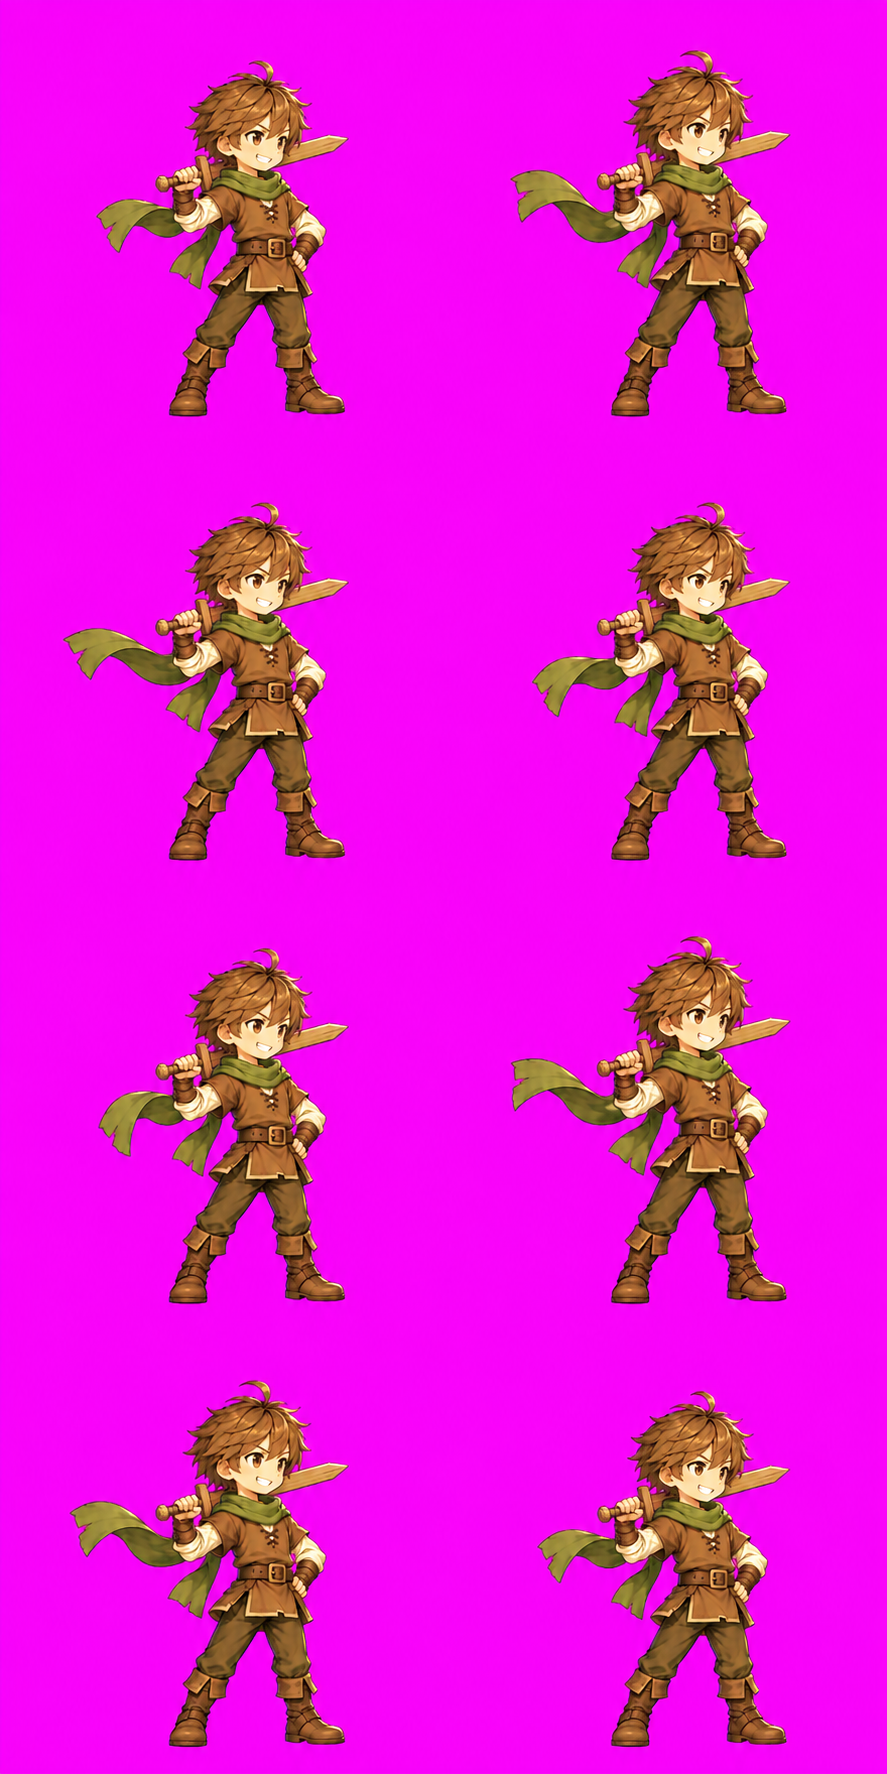
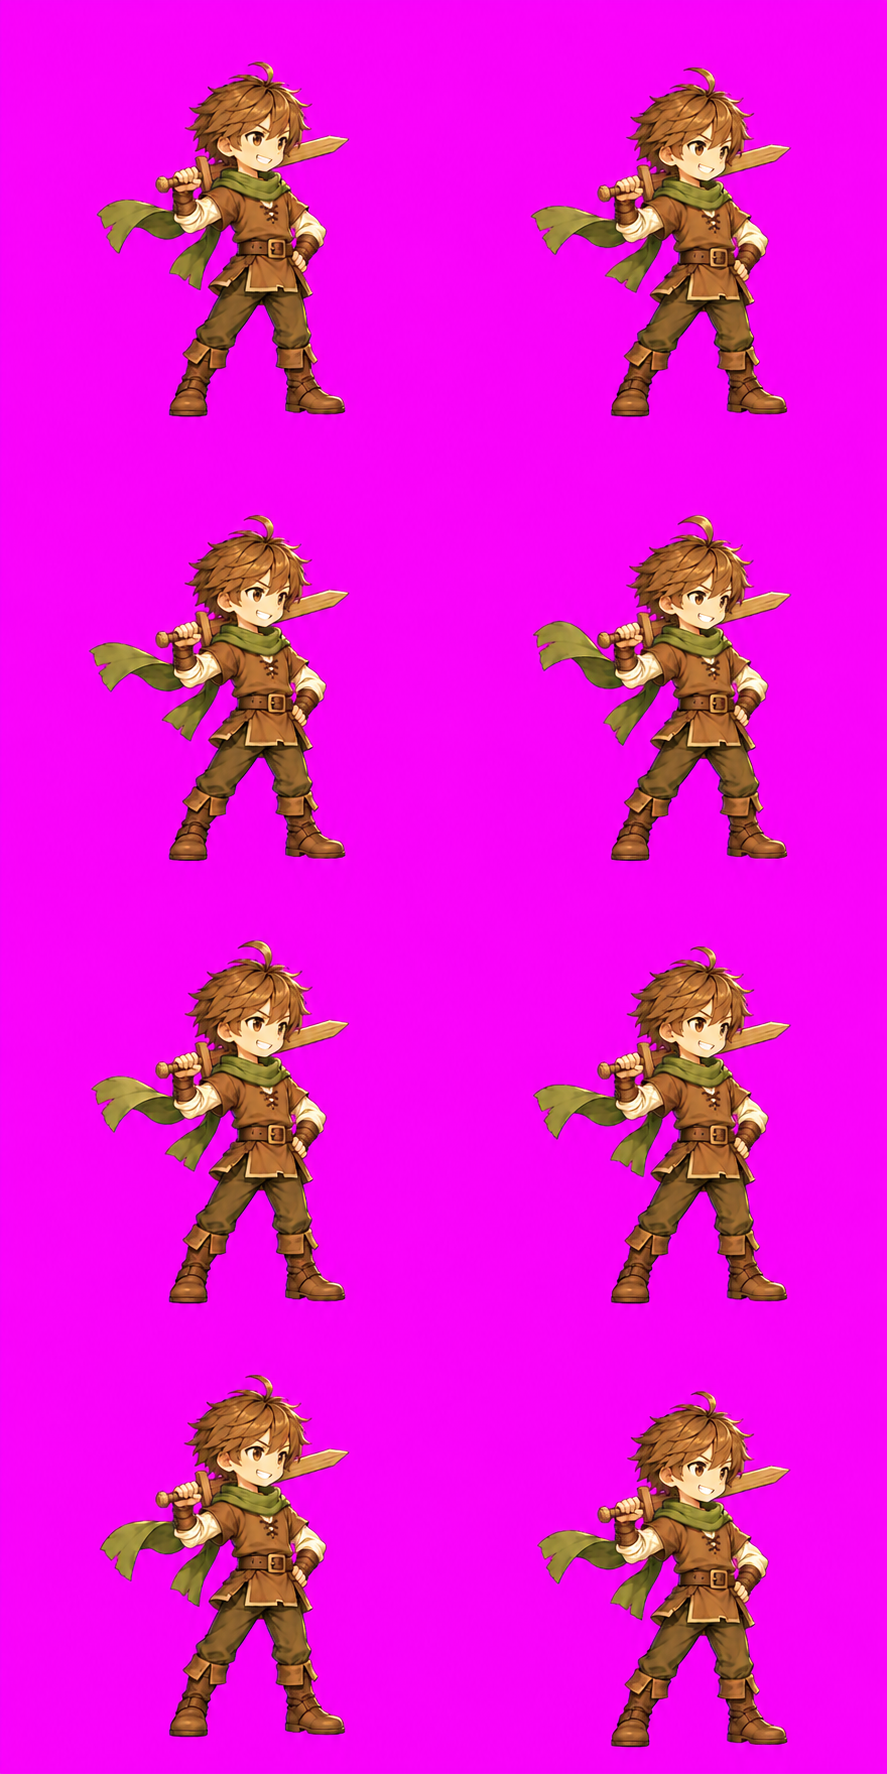
art(tan): eager heel-bounce showcase loop (astra high, face and boots from the master) and a quicker head scratch; hub actions start and end on the loop's resting frame

diff --git a/src/gemwoven/hero-show.js b/src/gemwoven/hero-show.js
@@ -77,13 +77,14 @@
       if(playing){
         // An action may hold some frames longer (show.sheets.timing: ms per frame).
         const p=playing,hold=show.sheets.timing?.[p.src]?.[Math.max(0,p.frame-1)]??p.ms;if(p.frame&&now-p.last<hold)return;p.last=now;stage.style.backgroundPosition=cell(p.frame);
-        if(++p.frame>=8){playing=null;sheet(show.sheets.idle);next=now+5000+Math.random()*4000;p.done?.();}
+        // Actions start and end on the resting pose, so the loop picks up again from its first frame.
+        if(++p.frame>=8){playing=null;frame=0;tick.last=now;sheet(show.sheets.idle);stage.style.backgroundPosition=cell(0);next=now+5000+Math.random()*4000;p.done?.();}
         return;
       }
       if(reduced())return;
       if(now-(tick.last||0)>=150){tick.last=now;frame=(frame+1)%8;stage.style.backgroundPosition=cell(frame);}
       const fidgets=show.sheets.fidgets||[];
-      if(fidgets.length&&now>next){
+      if(fidgets.length&&now>next&&frame===0){   // only from the resting pose: a bouncing loop never jumps
         const pick=fidgets[Math.floor(Math.random()*fidgets.length)];
         if(isReady(pick)&&isReady(show.sheets.idle))play(pick,130);else next=now+1000;
       }

diff --git a/assets/heroes/forms/novice/form-1/post/bobface.py b/assets/heroes/forms/novice/form-1/post/bobface.py
@@ -1,0 +1,38 @@
+"""bobface.py <whole.webp> <master_cell.png> <out.webp> <face box> <boots box> : a resting loop drawn whole by Codex,
+with the face held from the master: for each frame the master's face patch is placed (integer shift only, found by
+matching the drawn head) where the drawn face bobs to, and the boots are the master's boots in place. Frame 1 = master.
+Pixel selection and whole-pixel placement only; nothing is drawn, warped or scaled."""
+import sys
+import numpy as np
+from PIL import Image, ImageFilter
+who = np.asarray(Image.open(sys.argv[1]).convert("RGBA")).astype(np.float32) / 255
+mas = np.asarray(Image.open(sys.argv[2]).convert("RGBA")).astype(np.float32) / 255
+c = who.shape[1] // 2
+face = list(map(int, sys.argv[4].split(","))); boots = list(map(int, sys.argv[5].split(",")))
+cell = lambda i: (slice((i // 2) * c, (i // 2 + 1) * c), slice((i % 2) * c, (i % 2 + 1) * c))
+pm = lambda a: np.concatenate([a[..., :3] * a[..., 3:], a[..., 3:]], -1)
+def mask(b, blur=1.6):
+    m = np.zeros((c, c), np.uint8); m[b[1]:b[3], b[0]:b[2]] = 255
+    return np.asarray(Image.fromarray(m).filter(ImageFilter.GaussianBlur(blur)), np.float32)[..., None] / 255
+def shift(a, dx, dy):
+    o = np.zeros_like(a); H, W = a.shape[:2]
+    o[max(0, dy):H + min(0, dy), max(0, dx):W + min(0, dx)] = a[max(0, -dy):H - max(0, dy), max(0, -dx):W - max(0, dx)]
+    return o
+M = pm(mas); out = who.copy(); wf, wb = mask(face), mask(boots)
+hx0, hy0, hx1, hy1 = face[0] - 25, face[1] - 40, face[2] + 10, face[3] + 5     # head area used to find the bob
+for i in range(8):
+    F = pm(who[cell(i)])
+    if i == 0:
+        res = M
+        print(1, "master")
+    else:
+        best = min(((np.abs(shift(M, dx, dy)[hy0:hy1, hx0:hx1] - F[hy0:hy1, hx0:hx1]).mean(), dx, dy)
+                    for dx in range(-4, 5) for dy in range(-8, 9)))
+        _, dx, dy = best
+        res = F * (1 - wf) + shift(M, dx, dy) * shift(wf, dx, dy) + F * (wf - shift(wf, dx, dy)).clip(0, 1) * 0
+        wfs = shift(wf, dx, dy); res = F * (1 - wfs) + shift(M, dx, dy) * wfs
+        res = res * (1 - wb) + M * wb
+        print(i + 1, "head bob dx", dx, "dy", dy, "err", round(float(best[0]), 4))
+    a = res[..., 3:]
+    out[cell(i)] = np.concatenate([np.where(a > 1e-4, res[..., :3] / np.maximum(a, 1e-4), 0), a], -1)
+Image.fromarray((out.clip(0, 1) * 255).astype("uint8"), "RGBA").save(sys.argv[3], lossless=True, method=6)
